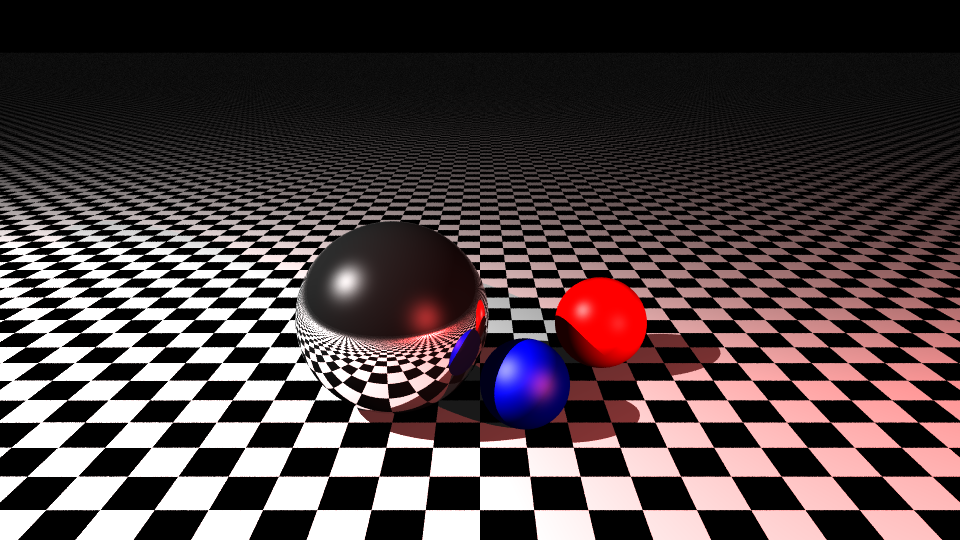
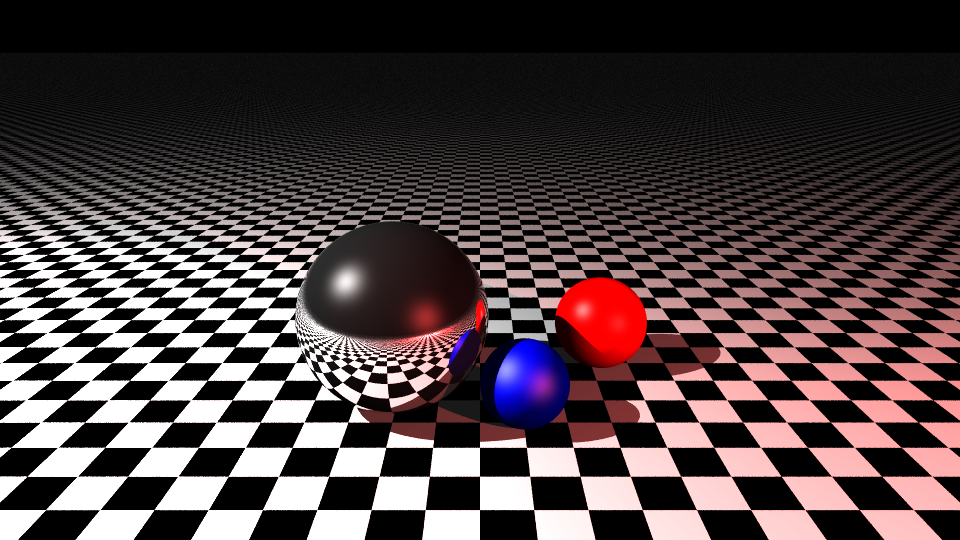
refraction done

Changed region(s): [[0.3125, 0.563, 0.5, 0.6815], [0.1562, 0.5037, 0.1875, 0.5333], [0.0312, 0.4444, 0.0625, 0.4741]]

diff --git a/comp557f25a4-provided/scene.py b/comp557f25a4-provided/scene.py
@@ -150,10 +150,27 @@ class Scene:
                 hit = self.intersect_scene(ray, t_min, float('inf'))
                 if not hit.is_hit: break # no more intersections, so break out of the loop
                 sample_colour += throughput * self.compute_shading(hit, ray)
-                throughput *= self.material_field[hit.mat].reflectivity
-                if throughput < 0.01: break # terminate if throughput is too low
+                mat = self.material_field[hit.mat]
+                new_dir = tm.vec3(0.0, 0.0, 0.0)
+                keep_going = False
+                if mat.transparency > 0: # refraction
+                    throughput *= mat.transparency
+                    n = hit.normal
+                    eta = 1.0 / mat.ior # entering: air -> material
+                    if tm.dot(ray.direction, n) > 0: # exiting: material -> air
+                        n = -n
+                        eta = mat.ior
+                    new_dir = tm.refract(ray.direction, n, eta)
+                    if tm.length(new_dir) < 1e-6: # total internal reflection
+                        new_dir = tm.reflect(ray.direction, n)
+                    keep_going = True
+                elif mat.reflectivity > 0: # mirror reflection
+                    throughput *= mat.reflectivity
+                    new_dir = tm.reflect(ray.direction, hit.normal) # reflect the ray direction
+                    keep_going = True
+                if not keep_going or throughput < 0.01: break # terminate if not reflective or refractive or throughput is too low
                 ray.origin = hit.position
-                ray.direction = tm.reflect(ray.direction, hit.normal) # reflect the ray direction
+                ray.direction = tm.normalize(new_dir)
                 t_min = shadow_epsilon # set t_min for the next intersection test
 
             self.image[x,y] += (sample_colour - self.image[x,y]) / self.iter_counter[None] 

diff --git a/comp557f25a4-provided/parser.py b/comp557f25a4-provided/parser.py
@@ -109,9 +109,11 @@ def load_scene(infile: str, image_scale_factor: float, scene: Scene):
         mat_specular = tm.vec3(0,0,0) if "specular" not in material else tm.vec3(material["specular"])
         mat_shininess = 0 if "shininess" not in material else material["shininess"]
         mat_reflectivity = 0 if "reflectivity" not in material else material["reflectivity"]
+        mat_transparency = 0 if "transparency" not in material else material["transparency"]
+        mat_ior = 1.0 if "ior" not in material else material["ior"]
         material_id_by_name[mat_name] = len(materials)  
 
-        materials.append(Material(mat_texture_id, mat_diffuse, mat_specular, mat_shininess, mat_reflectivity))
+        materials.append(Material(mat_texture_id, mat_diffuse, mat_specular, mat_shininess, mat_reflectivity, mat_transparency, mat_ior))
 
     # load geometires
     objects = {"sphere": [],

diff --git a/comp557f25a4-provided/helperclasses.py b/comp557f25a4-provided/helperclasses.py
@@ -30,6 +30,8 @@ class Material:
     specular: tm.vec3    # ks specular coefficient
     shininess: float    # specular exponent
     reflectivity: float  # reflectivity coefficient
+    transparency: float  # fraction of light passing through (refraction)
+    ior: float           # index of refraction
 
 @ti.dataclass
 class Light:
